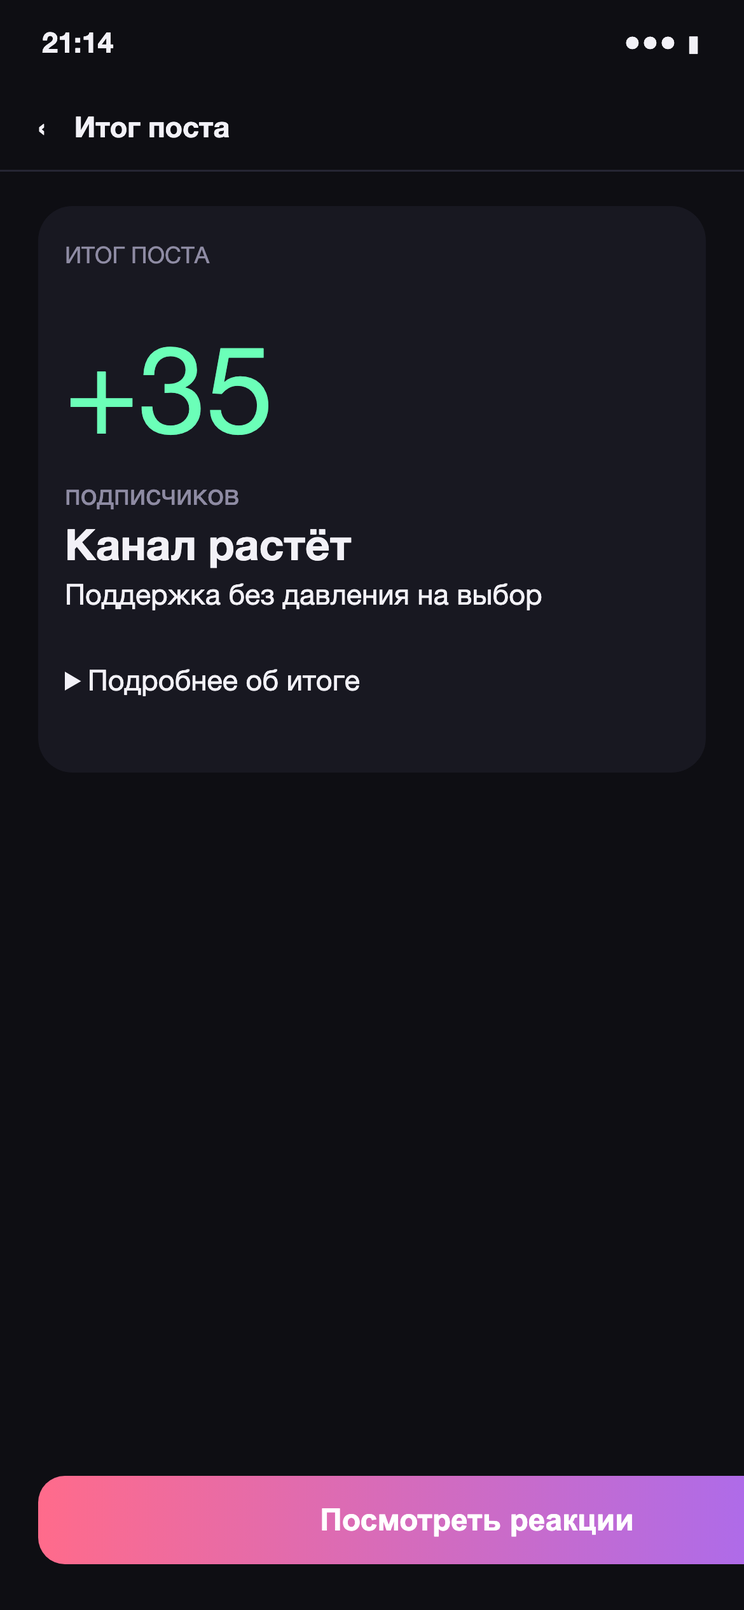
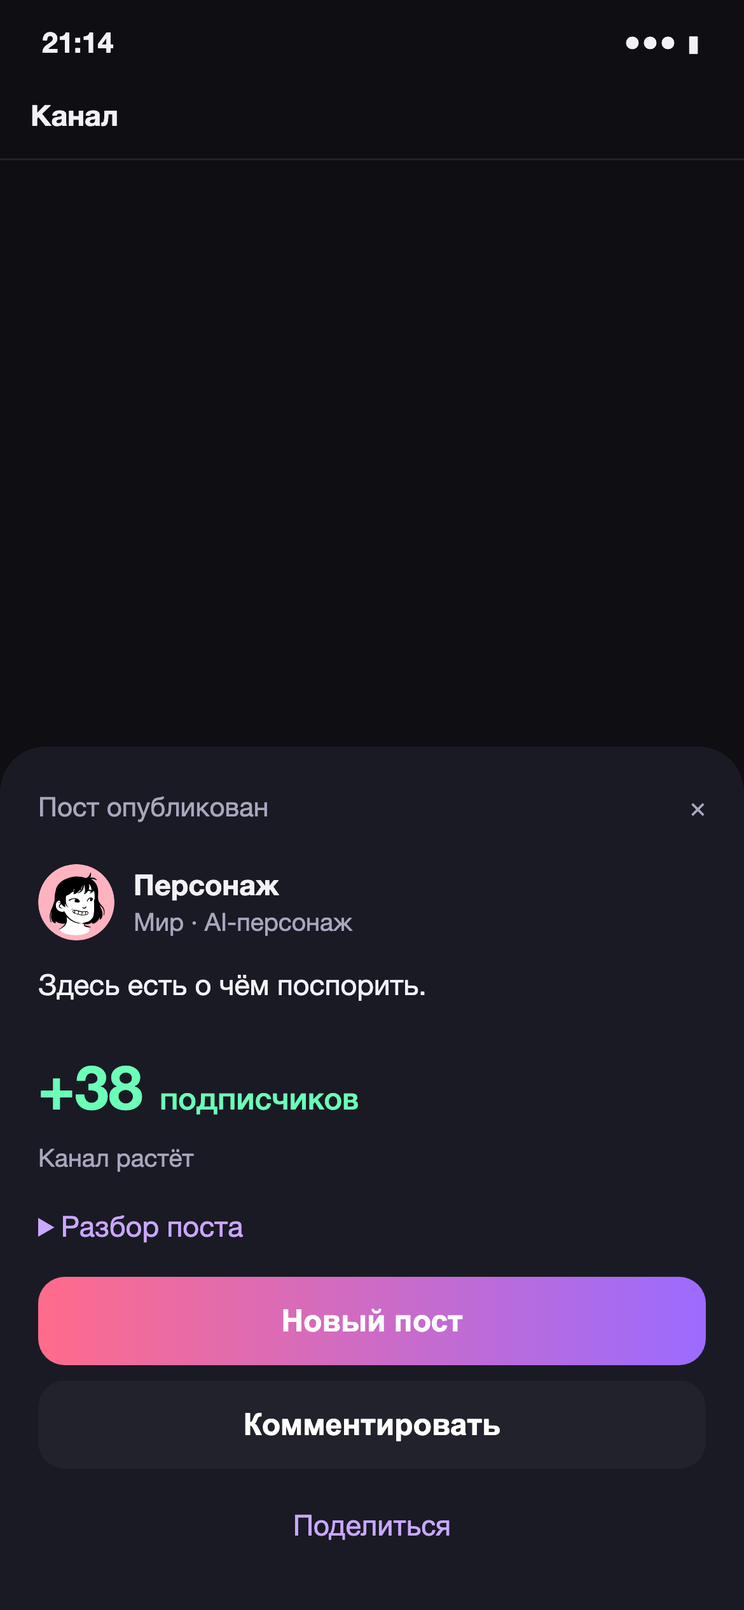
feat: show NPC reply in post result and keep idea provenance #297

diff --git a/frontend/src/screens/turn.tsx b/frontend/src/screens/turn.tsx
@@ -10,7 +10,7 @@ import { inTelegram } from '../telegram'
 import { Avatar, BottomCTA, Button, Comment, Gift, Ribbon, Sheet, TopBar, EnergyBadge, Whisper, fmt, plural } from '../ui'
 import { ChannelHead } from './onboarding'
 import { track } from '../app/log'
-import { contentOf } from '../api/worldContent'
+import { contentOf, worldOf } from '../api/worldContent'
 import { apiBaseUrl, runtimeConfig } from '../app/runtimeConfig'
 import { useReferralLink } from '../app/useReferralLink'
 import { register } from '.'
@@ -31,7 +31,7 @@ function Compose() {
   const text = draft.text
   const [durable, setDurable] = useState(true)
   const edit = (value: string, fromIdea = false) => {
-    const next = { ...draft, text: value, ownWords: fromIdea ? false : draft.ownWords || value !== draft.text }
+    const next = { ...draft, text: value, ownWords: fromIdea ? false : value.length === 0 || draft.ownWords }
     setDraft(next); setDurable(savePostDraft(key, next))
   }
   useEffect(() => { setDurable(savePostDraft(key, draft)) }, [key, draft])
@@ -84,7 +84,7 @@ function Live() {
       setTyping(null)
       track('post_result', { delta: created.result.delta, viral: created.result.viral, flop: created.result.flop })
       const result = latest ? { ...created.result, completedWants: latest.wants.filter(want => want.done && p.wants.some(before => before.id === want.id && !before.done)).map(({ id, text, reward }) => ({ id, text, reward })) } : created.result
-      nav.replace(result.viral ? '02-5_viral' : result.flop ? '02-4_flop' : '02-3_result', { result, post: created.post, commentPromise })
+      nav.replace(result.viral ? '02-5_viral' : result.flop ? '02-4_flop' : '02-3_result', { result, post: created.post, commentPromise, predictedAuthorId: created.predictedAuthorId })
     })() }, 0)
     return () => { active = false; clearTimeout(start) }
   }, []) // eslint-disable-line react-hooks/exhaustive-deps
@@ -148,55 +148,66 @@ function useCount(n: number, ms = 800) {
 const haptic = (kind: 'success' | 'warning' | 'light') => { if (!inTelegram) return; try { if (kind === 'light') hapticFeedback.impactOccurred.ifAvailable('light'); else hapticFeedback.notificationOccurred.ifAvailable(kind) } catch { /* вне Telegram */ } }
 
 function ResultCard({ r, post: initialPost, theme }: { r: PostResult; post: Post; theme: 'normal' | 'flop' | 'viral' }) {
-  const nav = useNav()
+  const nav = useNav(); const player = usePlayer()
   const [post, setPost] = useState(initialPost)
   const [commentFailed, setCommentFailed] = useState(false)
   const commentPromise = nav.params.commentPromise as Promise<Post | null> | undefined
   useEffect(() => {
     let active = true
-    void commentPromise?.then(saved => { if (active) { if (saved) setPost(saved); else setCommentFailed(true) } })
+    void commentPromise?.then(saved => { if (active) { if (saved) setPost(saved); else setCommentFailed(true) } }, () => { if (active) setCommentFailed(true) })
     return () => { active = false }
   }, [commentPromise])
-  const closeButton = useRef<HTMLButtonElement>(null)
-  useEffect(() => { closeButton.current?.focus(); const close = (event: KeyboardEvent) => { if (event.key === 'Escape') nav.replace('03-5_stage') }; document.addEventListener('keydown', close); return () => document.removeEventListener('keydown', close) }, [nav])
+  const closeButton = useRef<HTMLButtonElement>(null), dialog = useRef<HTMLDivElement>(null)
+  useEffect(() => {
+    closeButton.current?.focus()
+    const keyboard = (event: KeyboardEvent) => {
+      if (event.key === 'Escape') nav.replace('03-5_stage')
+      if (event.key !== 'Tab') return
+      const items = dialog.current?.querySelectorAll<HTMLElement>('button:not(:disabled),summary,a[href]')
+      if (!items?.length) return
+      const first = items[0], last = items[items.length - 1]
+      if (event.shiftKey && document.activeElement === first) { event.preventDefault(); last.focus() }
+      else if (!event.shiftKey && document.activeElement === last) { event.preventDefault(); first.focus() }
+    }
+    document.addEventListener('keydown', keyboard)
+    return () => document.removeEventListener('keydown', keyboard)
+  }, [nav])
   const viral = theme === 'viral'
-  const bestComment = r.bestComment ?? post.comments[0]
+  const stars = contentOf(player.world).stars
+  const comment = post.comments.find(item => item.star && !item.hidden)
+  const fallback = r.bestComment
+  const actor = stars.find(item => `Star_${item.id}` === comment?.authorId || item.avatarSeed === (comment?.avatar ?? fallback?.avatar) || `Star_${item.id}` === nav.params.predictedAuthorId)
+  const commentText = comment?.text ?? fallback?.text
   const shown = useCount(Math.abs(r.delta))
   const additive = r.whys.filter(why => /^[+−-]\d+(?:[.,]\d+)?$/.test(why.value))
   const explainsDelta = additive.length > 0 && additive.reduce((sum, why) => sum + Number(why.value.replace('−', '-').replace(',', '.')), 0) === r.delta
-  useEffect(() => { haptic(r.delta >= 0 ? 'success' : 'warning'); const ts = r.whys.map((_, i) => setTimeout(() => haptic('light'), 850 + i * 150)); return () => ts.forEach(clearTimeout) }, [r])
+  const explanation = r.delta === 0 ? 'Число подписчиков не изменилось.' : r.delta < 0 ? r.whys.find(why => !why.value.startsWith('×') && why.label !== 'В тему')?.label ?? r.headline : r.headline
+  useEffect(() => { haptic(r.delta >= 0 ? 'success' : 'warning') }, [r])
   return (
     <div className="screen no-tab">
       <ChannelHead />
       <div className="pad" style={{ opacity: .45 }}><div className="card"><div className="small muted">только что</div>{post.text}<div style={{ marginTop: 8 }}>{post.reactions.map(reaction => <span key={reaction.emoji} className="react">{reaction.emoji} {reaction.count}</span>)}<span className="small muted" style={{ float: 'right' }}>👁 {fmt(r.views)}</span></div></div></div>
       <div className="sheet-bg" style={{ background: 'rgba(8,8,12,.55)' }}>
-        <div className="sheet" style={{ background: viral ? 'linear-gradient(170deg,#1B2A4A,#2A1236 60%,#1A1A24)' : '#1A1A24', position: 'relative' }}>
+        <div ref={dialog} role="dialog" aria-modal="true" aria-label="Пост опубликован" className={`sheet post-result${viral ? ' post-result--viral' : ''}`}>
           <button ref={closeButton} className="result-close" aria-label="Закрыть итог и вернуться в канал" onClick={() => nav.replace('03-5_stage')}>×</button>
-          <div className="small" style={{ paddingRight: 40, letterSpacing: '.06em', color: viral ? 'var(--gift)' : 'var(--muted2)' }}>{viral ? '🌊 ПОСТ ЗАЛЕТЕЛ В РЕКИ' : 'ИТОГ ПОСТА'}</div>
-          <div style={{ fontSize: 64, fontWeight: 900, lineHeight: 1.1 }} className={r.delta >= 0 ? 'up' : 'down'}>{r.delta >= 0 ? '+' : '−'}{fmt(shown)}</div>
-          <div className="muted2" style={{ marginBottom: 12 }}>{plural(shown, 'подписчик', 'подписчика', 'подписчиков')}</div>
-          <div style={{ fontSize: 18, fontWeight: 800, marginBottom: 12 }}>{r.delta < 0 ? "Часть подписчиков ушла" : r.delta === 0 ? "Подписчиков столько же" : viral ? r.headline : "Твой пост заметили ✨"}</div>
-          {viral && <div className="confetti" aria-hidden>{Array.from({ length: 18 }, (_, i) => <i key={i} style={{ left: `${(i * 53) % 100}%`, animationDelay: `${(i % 6) * 0.12}s`, background: ['#FF6B8B', '#9B6BFF', '#FFD66B', '#6BFFB8'][i % 4] }} />)}</div>}
-
-          {commentFailed && <p className="small muted" role="status">Пост опубликован, но ответ звезды пока не появился.</p>}
-          <div className="result-awards" aria-live="polite">{r.ribbons.map(award => <Ribbon key={award.title} icon={award.icon} title={award.title} sub={award.sub} />)}</div>
-          <details className="result-details"><summary>Разбор поста</summary>          <div>{r.whys.map((w, i) => <span key={w.label} className="chip pop" style={{ background: '#22222D', animationDelay: `${0.85 + i * 0.15}s` }}>{({ star: '⭐', brave: '🔥', humor: '😂', topic: '🎯', reach: '👁' } as Record<string, string>)[w.icon] ?? w.icon} {w.label} {(!/^[+−-]/.test(w.value) || explainsDelta) && <b className={/^[+×]/.test(w.value) ? 'up' : 'down'}>{w.value}</b>}</span>)}</div>
-          {bestComment && <div className="row" style={{ margin: '8px 0 12px' }}><Avatar seed={bestComment.avatar} size={28} mode="default" /><span className="small">«{bestComment.text}»</span></div>}
+          <div className="post-result-title">Пост опубликован</div>
+          <section className="post-result-reaction" aria-label="Ответ персонажа">
+            <div className="row"><Avatar seed={comment?.avatar ?? actor?.avatarSeed ?? fallback?.avatar} label={comment?.author ?? actor?.name ?? 'Персонаж'} size={40} mode="default" /><div><strong>{comment?.author ?? actor?.name ?? 'Персонаж'}</strong><div className="small muted">{worldOf(player.world).title} · AI-персонаж</div></div></div>
+            {commentText ? <p>{commentText}</p> : <p className="muted" role="status">{commentFailed || !commentPromise ? 'Ответ персонажа пока не загрузился.' : 'Персонаж готовит ответ…'}</p>}
+          </section>
+          <div className={`post-result-delta ${r.delta > 0 ? 'up' : r.delta < 0 ? 'down' : ''}`}>{r.delta > 0 ? '+' : r.delta < 0 ? '−' : ''}{fmt(shown)} <span>{plural(Math.abs(r.delta), 'подписчик', 'подписчика', 'подписчиков')}</span></div>
+          <p className="small muted">{explanation}</p>
+          <details className="result-details"><summary>Разбор поста</summary><div>{r.whys.map((why, i) => <span key={`${why.label}:${i}`} className="chip">{({ star: '⭐', brave: '🔥', humor: '😂', topic: '🎯', reach: '👁' } as Record<string, string>)[why.icon] ?? why.icon} {why.label} {(!/^[+−-]/.test(why.value) || explainsDelta) && <b className={/^[+×]/.test(why.value) ? 'up' : 'down'}>{why.value}</b>}</span>)}</div>
+            <div className="result-awards">{r.ribbons.map(award => <Ribbon key={award.title} icon={award.icon} title={award.title} sub={award.sub} />)}</div>
           </details>
-          {viral ? <>
-            <Button onClick={() => nav.push('02-7_share', { post })}>Поделиться залётом</Button>
-            <div className="small" style={{ textAlign: 'center', margin: '8px 0', color: 'var(--gift)' }}>Позови друга в свой мир</div>
-            <Button secondary onClick={() => nav.replace('03-5_stage')}>В канал</Button>
-          </> : <>
-            <Button onClick={() => nav.replace('02-6_thread', { post, commentPromise })}>Посмотреть реакции</Button>
-            {theme === 'normal' && <><button onClick={() => nav.push('02-7_share', { post })} aria-label="Поделиться постом" className="result-share">↗ Поделиться</button>
-              </>}
-          </>}
+          <div className="post-result-actions"><Button onClick={() => nav.replace('02-1_compose')}>Новый пост</Button><Button secondary onClick={() => nav.replace('02-6_thread', { post, commentPromise, focusReply: true })}>Комментировать</Button></div>
+          <button onClick={() => nav.push('02-7_share', { post })} className="result-share">Поделиться</button>
         </div>
       </div>
     </div>
   )
 }
+
 const Result = () => { const n = useNav(); const r = (n.params.result as PostResult) ?? results.normal; return <ResultCard r={r} post={(n.params.post as Post) ?? { ...firstPost, id: r.postId, text: (n.params.text as string) ?? firstPost.text }} theme="normal" /> }
 const Flop = () => { const n = useNav(); const r = (n.params.result as PostResult) ?? results.flop; return <ResultCard r={r} post={(n.params.post as Post) ?? { ...firstPost, id: r.postId, text: (n.params.text as string) ?? 'сегодня сдавала пробник по ЕГЭ, всё сложно' }} theme="flop" /> }
 const Viral = () => { const n = useNav(); const r = (n.params.result as PostResult) ?? results.viral; return <ResultCard r={r} post={(n.params.post as Post) ?? { ...firstPost, id: r.postId, text: (n.params.text as string) ?? firstPost.text }} theme="viral" /> }
@@ -270,6 +281,15 @@ function Thread() {
     })
     return () => { active = false }
   }, [commentPromise, load, threadKey])
+  const initialReplyFocused = useRef('')
+  useEffect(() => {
+    if (!nav.params.focusReply || load !== 'ready' || !post || initialReplyFocused.current === threadKey) return
+    const target = post.comments.find(comment => comment.star && !comment.hidden && stars.some(star => `Star_${star.id}` === comment.authorId))
+    if (!target) return
+    initialReplyFocused.current = threadKey
+    setDraft(current => current.commentId || current.submitted ? current : { ...current, commentId: target.id, requestId: crypto.randomUUID() })
+    requestAnimationFrame(() => document.querySelector<HTMLInputElement>('.thread-reply-input')?.focus())
+  }, [post, load, threadKey, nav.params.focusReply])
   const postAuthor = stars.find(star => `Star_${star.id}` === post?.authorId)
   const isStarComment = (comment?: CommentT) => !!comment?.star && !comment.hidden && stars.some(star => `Star_${star.id}` === comment.authorId)
   const target = post?.comments.find(comment => comment.id === draft.commentId)
@@ -399,8 +419,14 @@ function Share() {
   const player = usePlayer()
   const { link, error: linkError, retry } = useReferralLink()
   const post = (nav.params.post as Post | undefined) ?? firstPost
-  const text = `Мой пост в Реках 🌊 А ты кем будешь в ${contentOf(player.world).where}?`
-  const toChat = () => { if (!link) return; track('share', { to: 'chat' }); if (inTelegram) shareURL.ifAvailable(link, text); else window.open(`https://t.me/share/url?url=${encodeURIComponent(link)}&text=${encodeURIComponent(text)}`) }
+  const text = `${post.text}\n\nМой пост в Реках 🌊`
+  const [shareError, setShareError] = useState('')
+  const toChat = async () => {
+    if (!link) return
+    track('share', { to: 'chat' }); setShareError('')
+    try { if (inTelegram) shareURL.ifAvailable(link, text); else if (navigator.share) await navigator.share({ title: 'Реки', text, url: link }); else window.open(`https://t.me/share/url?url=${encodeURIComponent(link)}&text=${encodeURIComponent(text)}`, '_blank', 'noopener,noreferrer') }
+    catch (cause) { if (!(cause instanceof DOMException && cause.name === 'AbortError')) setShareError('Не получилось открыть отправку. Попробуй ещё раз.') }
+  }
   // Публичную картинку 9:16 Telegram загружает без заголовков авторизации.
   const storyCardUrl = new URL(`${apiBaseUrl ?? ''}/cards/story/${encodeURIComponent(player.id)}/${encodeURIComponent(post.id)}.png`, location.origin).toString()
   const toStory = () => { if (!link) return; track('share', { to: 'story' }); if (inTelegram) shareStory.ifAvailable(storyCardUrl, { text, widgetLink: { url: link, name: 'Играть' } }) }
@@ -409,7 +435,7 @@ function Share() {
       <TopBar onBack={nav.back} title="Поделиться" />
       <div className="pad">
         <div style={{ background: 'linear-gradient(160deg,#2A1236,#141420)', borderRadius: 14, padding: 14, marginBottom: 12 }}>
-          <div className="small" style={{ color: 'var(--gift)' }}>РЕКИ · ПОСТ ЗАЛЕТЕЛ 🌊</div>
+          <div className="small" style={{ color: 'var(--gift)' }}>РЕКИ · МОЙ ПОСТ</div>
           <div style={{ margin: '8px 0' }}>{post.text}</div>
           <div className="small muted">👁 {fmt(post.views)}</div>
           <div className="small" style={{ marginTop: 8 }}>а ты кем будешь в {contentOf(player.world).where}? <b>▶ Играть</b></div>
@@ -418,7 +444,8 @@ function Share() {
         <div className="small muted">Telegram откроет список твоих чатов. Мы его не видим и никому не пишем сами.</div>
       </div>
       {linkError && <div className="pad" role="alert">Не удалось получить твою ссылку.<Button secondary onClick={retry}>Попробовать снова</Button></div>}
-      <BottomCTA disabled={!link} secondDisabled={!link} second="＋ В сторис" onSecond={toStory} main="Отправить в чат" onMain={toChat} />
+      {shareError && <p className="pad small" role="alert">{shareError}</p>}
+      <BottomCTA disabled={!link} secondDisabled={!link} second={inTelegram && shareStory.isAvailable() ? '＋ В сторис' : undefined} onSecond={toStory} main="Отправить в чат" onMain={() => void toChat()} />
     </div>
   )
 }

diff --git a/frontend/src/theme.css b/frontend/src/theme.css
@@ -433,3 +433,18 @@ summary:focus-visible { outline: 2px solid var(--lilac); outline-offset: 4px; bo
 .crystal-button { border:0; cursor:pointer; }
 
 .delete-trigger, .top button.delete-trigger { border: 1px solid #F06473; border-radius: 10px; padding: 4px 8px; }
+
+/* #297: saved publication first, then the next action. */
+.post-result { position:relative; background:#1A1A24; overflow-wrap:anywhere; }
+.post-result--viral { background:linear-gradient(170deg,#1B2A4A,#2A1236 60%,#1A1A24); }
+.post-result-title { padding-right:44px; margin-bottom:20px; color:var(--muted2); font-size:14px; }
+.post-result-reaction { margin-bottom:20px; }
+.post-result-reaction .row > div:last-child { min-width:0; }
+.post-result-reaction p { margin-top:12px; line-height:1.5; white-space:pre-wrap; overflow-wrap:anywhere; }
+.post-result-delta { font-size:32px; font-weight:800; line-height:1.2; }
+.post-result-delta > span { font-size:16px; font-weight:500; }
+.post-result > .small { margin-top:6px; }
+.post-result .result-details { margin:16px 0; }
+.post-result .result-details .chip { margin-top:8px; background:#22222D; }
+.post-result-actions { display:grid; gap:8px; }
+.post-result .result-share { min-height:44px; margin:8px auto 0; }

diff --git a/backend/src/Reki.Application/Posts/CreatePostCommand/Progression/PostProgressionCalculator.cs b/backend/src/Reki.Application/Posts/CreatePostCommand/Progression/PostProgressionCalculator.cs
@@ -27,7 +27,7 @@ internal sealed class PostProgressionCalculator(IOptionsMonitor<GameBalance> bal
         var world = currentBalance.Difficulties[gameWorld.Difficulty];
         var quality = Math.Clamp((turn.Brave + turn.Humor + turn.Topic) / 3, 0, 1);
         var postIndex = player.Wallet.EnergyUsed + 1;
-        var multiplier = GetGrowthMultiplier(gameWorld, postIndex, ownWords);
+        var (multiplier, multipliers) = GetGrowthMultiplier(gameWorld, postIndex, ownWords);
         var viral = !flop && IsViral(publicationId, quality, world);
 
         var decay = currentBalance.Growth.Decay
@@ -40,6 +40,16 @@ internal sealed class PostProgressionCalculator(IOptionsMonitor<GameBalance> bal
                      multiplier;
         var drama = (world.Drama ?? throw new InvalidOperationException("Drama balance is missing."))[gameWorld.Player.Drama];
         var viralMultiplier = viral ? currentBalance.Viral.Multiplier * world.ViralMultiplier : 1;
+        if (decay is < 1 or > 1)
+        {
+            multipliers["Посты за день"] = decay;
+        }
+
+        if (viral)
+        {
+            multipliers["Залёт"] = viralMultiplier;
+        }
+
         var subscriberDelta = flop
             ? -Math.Min(gameWorld.Player.Subscribers, Math.Min(
                 Math.Max(1, (long)Math.Round(growth * world.LossMultiplier * drama.LossMultiplier)),
@@ -51,7 +61,7 @@ internal sealed class PostProgressionCalculator(IOptionsMonitor<GameBalance> bal
             postIndex,
             ownWords,
             wantCompleted);
-        return new PostProgression(subscriberDelta, quality, viral, flop, skills);
+        return new PostProgression(subscriberDelta, quality, viral, flop, skills, multipliers);
     }
 
     private static SkillId GetMainSkill(PostScore turn)
@@ -72,26 +82,30 @@ internal sealed class PostProgressionCalculator(IOptionsMonitor<GameBalance> bal
         return value / (double)ulong.MaxValue;
     }
 
-    private double GetGrowthMultiplier(Domain.Worlds.World gameWorld, int postIndex, bool ownWords)
+    private (double Value, Dictionary<string, double> Factors) GetGrowthMultiplier(Domain.Worlds.World gameWorld, int postIndex, bool ownWords)
     {
         var currentBalance = balance.CurrentValue;
         double multiplier = 1;
+        var multipliers = new Dictionary<string, double>();
         if (gameWorld.Player.Subscribers < currentBalance.Growth.StarterBelowSubscribers)
         {
             multiplier *= currentBalance.Growth.StarterMultiplier;
+            multipliers["Старт канала"] = currentBalance.Growth.StarterMultiplier;
         }
 
         if (ownWords)
         {
             multiplier *= currentBalance.Growth.OwnWordsMultiplier;
+            multipliers["Свои слова"] = currentBalance.Growth.OwnWordsMultiplier;
         }
 
         if (gameWorld.Player.RestedPostsRemaining > 0 && postIndex <= currentBalance.Growth.RestedFirstPosts)
         {
             multiplier *= currentBalance.Growth.RestedMultiplier;
+            multipliers["Канал отдохнул"] = currentBalance.Growth.RestedMultiplier;
         }
 
-        return multiplier;
+        return (multiplier, multipliers);
     }
 
     private bool IsViral(string publicationId, double quality, DifficultyBalance world)

diff --git a/docs/design/src/journey_v37.py b/docs/design/src/journey_v37.py
@@ -1,0 +1,10 @@
+# #297: every saved post gets the same next actions, without waiting for AI.
+def publication297(delta, reason, reply='Здесь есть о чём поспорить.', state='ready'):
+    reaction = reply if state == 'ready' else 'Персонаж готовит ответ…' if state == 'pending' else 'Ответ персонажа пока не загрузился.'
+    number = ('+' if delta > 0 else '−' if delta < 0 else '') + str(abs(delta))
+    return P(f'''<div class="top"><b>Канал</b></div><div style="position:absolute;bottom:0;left:0;right:0;padding:22px 20px;background:#1A1A24;border-radius:24px 24px 0 0"><div style="display:flex;justify-content:space-between;color:#A9A6BD;font-size:14px;margin-bottom:20px"><span>Пост опубликован</span><span>×</span></div><div style="display:flex;gap:10px;align-items:center">{ava('М','',40)}<div><b>Персонаж</b><div class="small muted">Мир · AI-персонаж</div></div></div><p style="line-height:1.5;margin:12px 0 20px">{reaction}</p><div style="font-size:32px;font-weight:800;color:{'#6BFFB8' if delta>0 else '#FF6B8B' if delta<0 else '#F2F1F7'}">{number} <span style="font-size:16px;font-weight:500">подписчиков</span></div><p class="small muted" style="margin-top:6px">{reason}</p><details style="margin:16px 0"><summary style="color:#C9A8FF">Разбор поста</summary><p class="small">В тему · Старт канала ×2</p></details><button class="btn" style="width:100%;box-sizing:border-box;margin-bottom:8px">Новый пост</button><button class="btn" style="width:100%;box-sizing:border-box;background:#22222D">Комментировать</button><button style="display:block;margin:8px auto 0;min-height:44px;background:none;border:0;color:#C9A8FF;font-size:15px">Поделиться</button></div>''')
+S['02-3_result'] = publication297(38, 'Канал растёт')
+S['02-4_flop'] = publication297(-4, 'Грустный тон')
+S['02-5_viral'] = publication297(620, 'Пост залетел')
+S['02-3a_result_waiting'] = publication297(38, 'Канал растёт', state='pending')
+S['02-3b_result_error'] = publication297(38, 'Канал растёт', state='failed')

diff --git a/backend/src/Reki.Application/Posts/CreatePostCommand/Score/PostTextAnalysis.cs b/backend/src/Reki.Application/Posts/CreatePostCommand/Score/PostTextAnalysis.cs
@@ -30,15 +30,23 @@ internal sealed partial class PostTextAnalysis(
     public async Task<double[]> SkillsAsync(
         GamePost post,
         World world,
+        bool ownWords,
         CancellationToken cancellationToken)
     {
         string[] hypotheses = ["Автор смело выражает своё мнение.", "Текст содержит юмор или шутку."];
         var scores = await nli.ScoreAsync(post.Text, hypotheses, cancellationToken);
 
-        var postVector = await postEmbedder.GenerateVectorAsync(post, cancellationToken: cancellationToken);
-        var worldVector = await worldEmbedder.GenerateVectorAsync(world, cancellationToken: cancellationToken);
-        var similarity = TensorPrimitives.CosineSimilarity(postVector.Span, worldVector.Span);
-        var topic = similarity >= context.Current.Balance.Difficulties[world.Difficulty].TopicMinCosine ? 1d : 0d;
+        var topic = 1d;
+        if (ownWords)
+        {
+            var postVector = await postEmbedder.GenerateVectorAsync(post, cancellationToken: cancellationToken);
+            var worldVector = await worldEmbedder.GenerateVectorAsync(world, cancellationToken: cancellationToken);
+            var similarity = TensorPrimitives.CosineSimilarity(postVector.Span, worldVector.Span);
+
+            // Cosine and its threshold use the same precision so equality passes.
+            topic = similarity >= (float)context.Current.Balance.Difficulties[world.Difficulty].TopicMinCosine ? 1d : 0d;
+        }
+
         return [scores[0].Entailment, scores[1].Entailment, topic];
     }
 

diff --git a/backend/src/Reki.Application/Posts/CreatePostCommand/CreatePostCommandHandler.cs b/backend/src/Reki.Application/Posts/CreatePostCommand/CreatePostCommandHandler.cs
@@ -70,7 +70,7 @@ internal sealed class CreatePostCommandHandler(
             1,
             false,
             false);
-        var score = await scorer.ScoreAsync(post, world, currentBalance, cancellationToken);
+        var score = await scorer.ScoreAsync(post, world, currentBalance, command.OwnWords, cancellationToken);
         var starId = await stars.GetRelevantCommenterAsync(world, post);
         var flopReason = score.FlopReason ?? (score.Topic > 0 ? null : "off_topic");
         var flop = flopReason is not null;
@@ -156,6 +156,11 @@ internal sealed class CreatePostCommandHandler(
             score.Topic > 0
                 ? new WhyResponse("🎯", "В тему", string.Empty)
                 : new WhyResponse("👎", "Не в тему", string.Empty));
+
+        foreach (var (label, multiplier) in progression.GrowthMultipliers)
+        {
+            whys.Add(new WhyResponse("×", label, $"×{multiplier.ToString("0.###", CultureInfo.InvariantCulture).Replace('.', ',')}"));
+        }
 
         var result = new PostResultResponse(
             post.Id,

diff --git a/backend/src/Reki.Application/Posts/CreatePostCommand/Score/PostScorer.cs b/backend/src/Reki.Application/Posts/CreatePostCommand/Score/PostScorer.cs
@@ -10,10 +10,10 @@ internal sealed class PostScorer(
     PostTextAnalysis analysis,
     IEnumerable<IFlopTest> flopTests)
 {
-    public async Task<PostScore> ScoreAsync(GamePost post, World world, GameBalance balance, CancellationToken cancellationToken)
+    public async Task<PostScore> ScoreAsync(GamePost post, World world, GameBalance balance, bool ownWords, CancellationToken cancellationToken)
     {
         context.Current = new PostScoringData(world, balance, cancellationToken);
-        var skills = await analysis.SkillsAsync(post, world, cancellationToken);
+        var skills = await analysis.SkillsAsync(post, world, ownWords, cancellationToken);
         var emotion = await analysis.ClassifyAsync(ClassifierModels.EmotionModel, post.Text);
         var result = await flopTests.OrderBy(test => test.Priority)
             .ToAsyncEnumerable()

diff --git a/docs/design/src/build_journey.py b/docs/design/src/build_journey.py
@@ -343,6 +343,7 @@ exec(open(os.path.join(D, 'journey_v34.py'), encoding='utf-8').read())  # #268 p
 
 exec(open(os.path.join(D, 'journey_v35.py'), encoding='utf-8').read())  # #291 Web Push
 exec(open(os.path.join(D, 'journey_v36.py'), encoding='utf-8').read())  # #291 compact browser offers
+exec(open(os.path.join(D, 'journey_v37.py'), encoding='utf-8').read())  # #297 publication result
 
 CH = os.environ.get('CHROME_BIN') or shutil.which('google-chrome') or shutil.which('chrome')
 if not CH and os.name == 'nt':

diff --git a/backend/src/Reki.Application/Posts/CreatePostCommand/Progression/PostProgression.cs b/backend/src/Reki.Application/Posts/CreatePostCommand/Progression/PostProgression.cs
@@ -7,4 +7,5 @@ public sealed record PostProgression(
     double Quality,
     bool Viral,
     bool Flop,
-    IReadOnlyDictionary<SkillId, SkillProgress> Skills);
+    IReadOnlyDictionary<SkillId, SkillProgress> Skills,
+    IReadOnlyDictionary<string, double> GrowthMultipliers);

diff --git a/docs/game-flow.md b/docs/game-flow.md
@@ -112,9 +112,9 @@
 
 **Решено 08.11.2026 (#245):** флоу поста упрощён по образцу комментариев. Один `POST /posts` создаёт пост с ML-оценками, прогрессией и обязательным комментатором; энергия и результат сохраняются сразу. Frontend показывает результат анимацией и последовательно вызывает общий SSE генерации комментария с `sourceCommentId=null`, затем replies для сохранения корневой реплики. LLM пишет только текст. Сбой комментария не отменяет публикацию. Старые publications/moderation/status удалены; отдельного replay, конкурентных проверок, polling и recovery публикации нет. Это заменяет двухшаговое решение 06.10.2026.
 
-**Уточнено 11.11.2026:** пороги снижены до 0.35 / 0.5 / 0.65 для лёгкой, средней и сложной игры соответственно, чтобы чаще засчитывать смысловую близость поста к миру.
+**Решено 13.11.2026 (#297):** пороги темы — easy 0.35, normal 0.45, hard 0.55. При ownWords=false Topic безусловно равен 1, потому что готовая идея должна засчитываться по теме независимо от последующих правок; при true тема оценивается по cosine. Остальные причины провала сохраняются.
 
-**Уточнено 08.11.2026 (#245, ML):** «В тему» определяется по cosine эмбеддингов поста и описания мира (название, описание, роль игрока), потому что здесь нужна смысловая близость. Порог задаёт `difficulties.<difficulty>.topic_min_cosine`: easy — 0.35, normal — 0.5, hard — 0.65; драма его не меняет. При cosine >= порога оценка «в тему» равна 1, ниже порога — 0. Эта оценка участвует в качестве и опыте; при единице разбор показывает отметку «В тему», при нуле — «Не в тему». Смелость и юмор по-прежнему оценивает NLI. Для собственных повторов HNSW выбирает ближайшие кандидаты: наличие хотя бы одного кандидата с cosine не ниже порога означает повтор. Проверки чисел и NLI не выполняются. Пост анализируется целиком, без нарезки на окна; это приближённый поиск, а не полный перебор истории.
+**Уточнено 08.11.2026 (#245, ML):** «В тему» определяется по cosine эмбеддингов поста и описания мира (название, описание, роль игрока), потому что здесь нужна смысловая близость. Порог задаёт `difficulties.<difficulty>.topic_min_cosine`: easy — 0.35, normal — 0.45, hard — 0.55; драма его не меняет. При ownWords=true и cosine >= порога оценка «в тему» равна 1, ниже порога — 0; при ownWords=false она всегда равна 1. Эта оценка участвует в качестве и опыте; при единице разбор показывает отметку «В тему», при нуле — «Не в тему». Смелость и юмор по-прежнему оценивает NLI. Для собственных повторов HNSW выбирает ближайшие кандидаты: наличие хотя бы одного кандидата с cosine не ниже порога означает повтор. Проверки чисел и NLI не выполняются. Пост анализируется целиком, без нарезки на окна; это приближённый поиск, а не полный перебор истории.
 
 **Решено 08.11.2026 (#245):** пост не в тему (`Topic = 0`) приводит к отпискам по общей формуле, потому что несоответствие теме мира теперь является самостоятельной причиной потери аудитории. Если другие проверки не нашли причину, в `GamePost.FlopReason` сохраняется `off_topic`; иначе сохраняется уже выбранная причина. Применяется один flop без сложения потерь и без залёта.
 
@@ -313,3 +313,9 @@ Manifest задаёт стабильный id `/`, start_url `/`, scope `/`, dis
 Публичный ключ берётся из runtime config `webPushPublicKey` и соответствует отправителю backend #293. Пустой ключ означает недоступность подключения; приватный ключ фронту не передаётся. При открытии настроек/возврате в них и при входе в каталог читается разрешение; существующая подписка сохраняется за текущим авторизованным игроком. Подтверждение предыдущего аккаунта не переносится. Подписка на сервере не гарантирует доставку или прочтение.
 
 `push-sw.js` показывает системное уведомление и открывает игру; существующее окно фокусируется без навигации, сохраняя редактор. Внешние URL из payload не открываются. Worker не кеширует страницы/API, не перезагружает приложение и не реализует офлайн-режим. Реальная доставка проверяется отдельно на Telegram/iOS/Android.
+
+### Происхождение текста и карточка результата — решение 13.11.2026 (#297)
+
+ownWords хранит происхождение черновика: новый текст — true; успешная вставка готовой идеи — false. Частичное редактирование, дописывание, замены и пробелы сохраняют false. Только фактическая полная очистка (`text.length === 0`) или кнопка «Очистить» возвращают true. Введённый вручную текст, совпавший с идеей, остаётся true. Отмена замены ничего не меняет; флаг хранится вместе с текстом для игрока и мира и одинаков в POST /posts и post_publish. При false нет ×1,3 за свои слова. Это правило относится и к будущим фоновым идеям #264, период их генерации не меняется.
+
+После любого поста, включая минус и залёт: компактное «Пост опубликован», имя/аватар и комментарий персонажа, фактический прирост со знаком либо 0 и краткое объяснение, раскрываемый «Разбор поста», «Новый пост», «Комментировать», менее заметное «Поделиться». Разбор содержит реально применённые множители из расчёта, без выдуманных вкладов. Ожидание или ошибка комментария показываются на его месте и не блокируют новый пост или закрытие. × возвращает в канал, «Новый пост» сохраняет черновик и проверку энергии, «Комментировать» открывает тред именно этого поста с выбором комментария звезды, «Поделиться» использует существующий сценарий его шаринга. Сохранённые результаты и публикации не пересчитываются. Редизайн поддерживает те же правила в отдельной ветке; новая карточка не зависит от #264.

diff --git a/docs/backend-spec.md b/docs/backend-spec.md
@@ -61,7 +61,7 @@
 
 ## 3. ML-оценка поста
 
-`INliScorer` даёт независимые Entailment-оценки смелости и юмора. Для оценки «в тему» `TensorPrimitives.CosineSimilarity` рассчитывает cosine между эмбеддингами GamePost и World. Сериализатор мира использует название, описание и роль игрока; вектор мира не сохраняется в доменной модели. Порог `difficulties.<difficulty>.topic_min_cosine` равен 0.35/0.5/0.65 для easy/normal/hard и не зависит от драмы. При cosine >= порога Topic = 1, ниже порога Topic = 0. Эта оценка участвует в quality и опыте; при Topic = 1 разбор показывает отметку «В тему», при Topic = 0 — «Не в тему». Topic = 0 вызывает отписки по общей формуле; при отсутствии другой причины в `GamePost.FlopReason` сохраняется `off_topic`. NotEntailment не означает доказанное противоречие. Quality остаётся средним трёх оценок с существующим ограничением 0…1; основной навык получает прежний основной опыт, остальные — побочный. Модификаторы опыта и роста сохраняются.
+`INliScorer` даёт независимые Entailment-оценки смелости и юмора. Для оценки «в тему» `TensorPrimitives.CosineSimilarity` рассчитывает cosine между эмбеддингами GamePost и World. Сериализатор мира использует название, описание и роль игрока; вектор мира не сохраняется в доменной модели. Порог `difficulties.<difficulty>.topic_min_cosine` равен 0.35/0.45/0.55 для easy/normal/hard и не зависит от драмы. По решению 13.11.2026 (#297), при ownWords=false Topic безусловно равен 1 без проверки совпадения с идеей. Только при ownWords=true cosine >= порога даёт Topic = 1, ниже порога Topic = 0. Эта оценка участвует в quality и опыте; при Topic = 1 разбор показывает отметку «В тему», при Topic = 0 — «Не в тему». Topic = 0 вызывает отписки по общей формуле; при отсутствии другой причины в `GamePost.FlopReason` сохраняется `off_topic`. NotEntailment не означает доказанное противоречие. Quality остаётся средним трёх оценок с существующим ограничением 0…1; основной навык получает прежний основной опыт, остальные — побочный. Модификаторы опыта и роста сохраняются.
 
 `IClassifier` возвращает токсичность и эмоции. Проверки `IFlopTest` выявляют агрессивную ругань (`min(insult, anger)` собственной речи без оформленных цитат), близкий собственный повтор, выраженную грусть и тревогу. Для повторов `$vectorSearch` с HNSW выбирает ограниченный набор кандидатов в истории того же игрока/мира. WorldId/AuthorId входят в pre-filter поисковой стадии и индекс как filter-поля. Из vectorSearchScore восстанавливается raw cosine для существующего порога. Наличие хотя бы одного кандидата выше порога означает повтор (`history.Count > 0`); проверок чисел и NLI нет. Полного перебора истории и запасного exact-поиска нет. Пост передаётся моделям целиком, без нарезки на окна; NLI нужен только для смелости и юмора. Пороги сложности/драмы, приоритеты и формула небольшой потери находятся в `balance.json:difficulties` и [ml-scoring.md](ml-scoring.md).
 
@@ -363,3 +363,7 @@ World.Id — WorldId<Guid>, TemplateId — WorldId?, BSON UUID Standard subtype 
 Фронт использует сгенерированный из backend #293 метод `registerWebPush` и DTO `WebPushSubscriptionRequest` через существующий авторизованный transport. Успешное сохранение — только после `200`. Публичный `webPushPublicKey` берётся из runtime config и соответствует отправителю; приватный ключ фронту не передаётся. Нет дополнительных GET статуса/ключа или DELETE.
 
 Worker принимает `{title: "Реки", body: Notification.Content, url: "/"}`, ограничивает переход origin приложения и показывает фиксированное название «Реки». В Telegram frontend не вызывает requestWriteAccess и не проверяет статус бота. Backend-расписание, каналы, миграция и отправители этим frontend PR не меняются.
+
+### Результат и ownWords (#297, 13.11.2026)
+
+ownWords — сохраняемое происхождение черновика, не результат сравнения текста с подсказкой. false задаёт Topic=1 до расчёта quality, опыта, отметки темы и off_topic; проверки angry_abuse, near_copy, sad_tone, anxious_tone и безопасность остаются независимыми. Бонус собственных слов применяется только при true. Ответ result.whys содержит фактически применённые множители из PostProgressionCalculator; форма HTTP-контракта не меняется. POST /posts сохраняет пост и возвращает результат до генерации комментария; ошибка последующего ответа персонажа не отменяет пост и не запускает его повторную публикацию. Существующие данные не пересчитываются.
